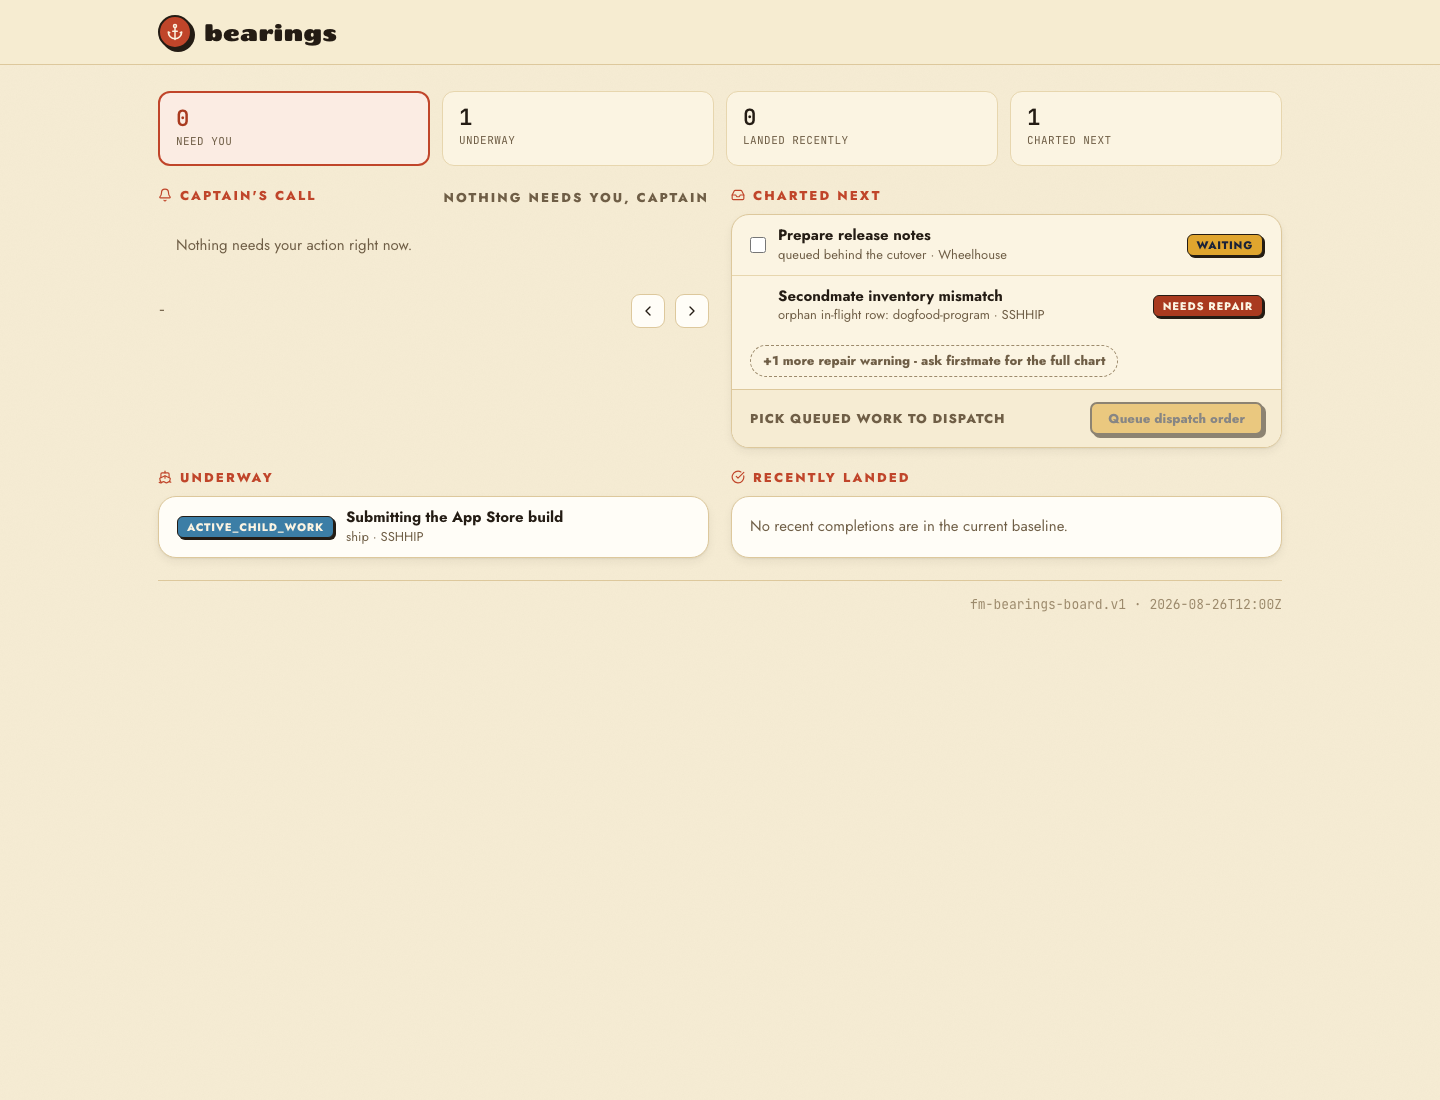
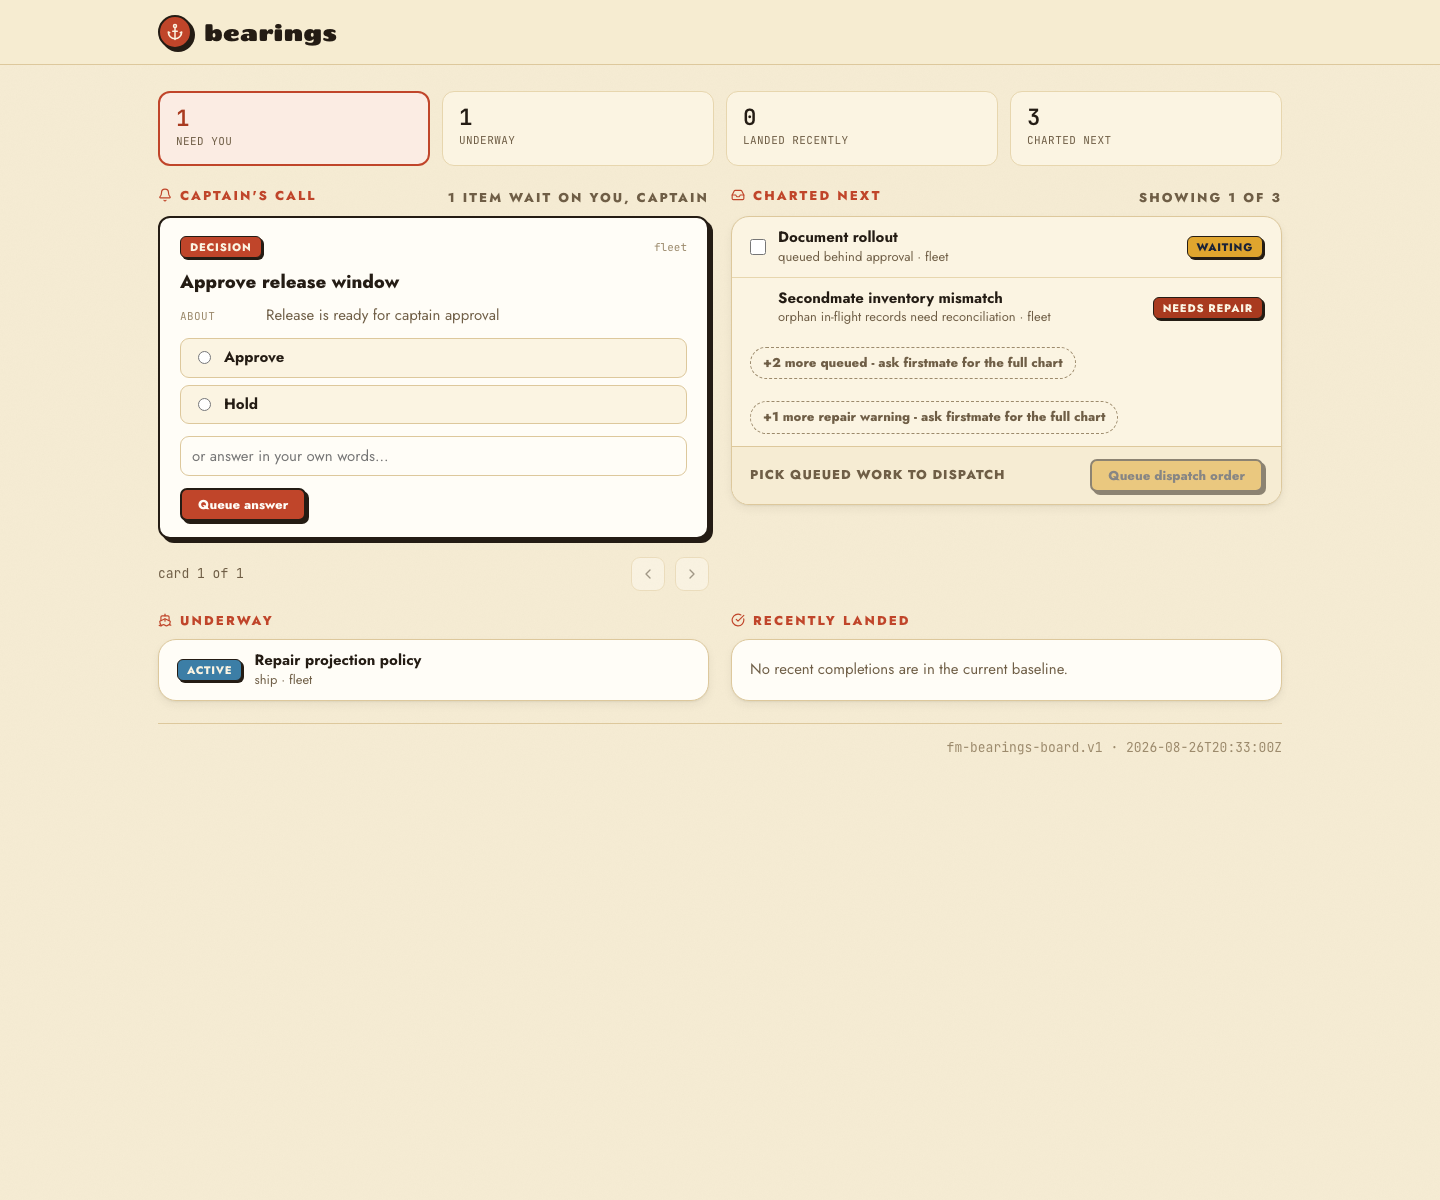
no-mistakes: evidence for fm/fm-bearings-fix-bearings-fixes-projection-bug-policy-rev-77 (run 01M0ZTAQKV8PBJEXZQ5G8FZ8MC)

diff --git a/.no-mistakes/evidence/fm/fm-bearings-fix-bearings-fixes-projection-bug-policy-rev-77/bearings-warning-board.html b/.no-mistakes/evidence/fm/fm-bearings-fix-bearings-fixes-projection-bug-policy-rev-77/bearings-warning-board.html
@@ -375,7 +375,7 @@ a { color: inherit; text-decoration: none; }
      fm-bearings-board.v1 payload in place of the placeholder below; everything
      above and below is the shipped template and is never regenerated per run. -->
 <script id="bearings-data" type="application/json">
-{"schema":"fm-bearings-board.v1","home":"Captain's fleet","generated":"2026-08-26T12:00Z","prs_live":false,"captains_call":[],"underway":[{"id":"live-worker","repo":"SSHHIP","title":"Release worker","state":"active_child_work","doing":"Submitting the App Store build","kind":"ship"}],"landed":[],"charted":[{"id":"queued-release","repo":"Wheelhouse","title":"Prepare release notes","reason":"queued behind the cutover","dispatchable":true},{"id":"sshhip-inventory","repo":"SSHHIP","title":"Secondmate inventory mismatch","reason":"orphan in-flight row: dogfood-program","dispatchable":false,"kind":"warning"}],"charted_more":0,"charted_warning_more":1}
+{"schema":"fm-bearings-board.v1","home":"captain-demo","generated":"2026-08-26T20:33:00Z","prs_live":true,"captains_call":[{"key":"release-window","type":"decision","repo":"fleet","title":"Approve release window","options":[{"value":"approve","label":"Approve"},{"value":"hold","label":"Hold"}],"allow_freeform":true,"about":"Release is ready for captain approval"}],"underway":[{"id":"worker-1","repo":"fleet","state":"active","doing":"Repair projection policy","kind":"ship"}],"landed":[],"charted":[{"id":"queued-1","repo":"fleet","title":"Document rollout","reason":"queued behind approval","dispatchable":true},{"id":"warn-1","repo":"fleet","title":"Secondmate inventory mismatch","reason":"orphan in-flight records need reconciliation","dispatchable":false,"kind":"warning"}],"charted_more":2,"charted_warning_more":1}
 </script>
 
 <script>
